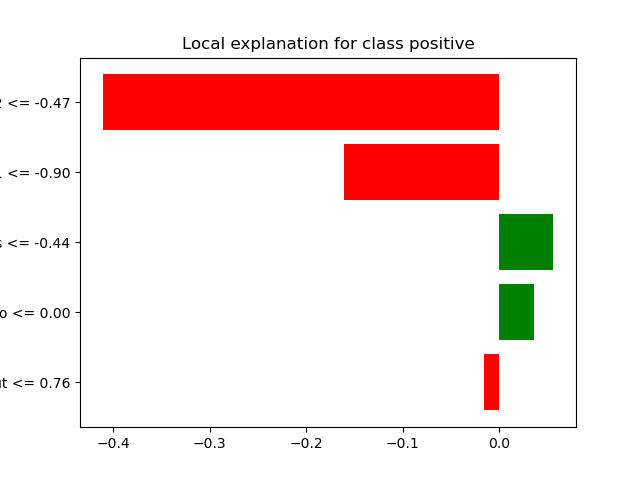
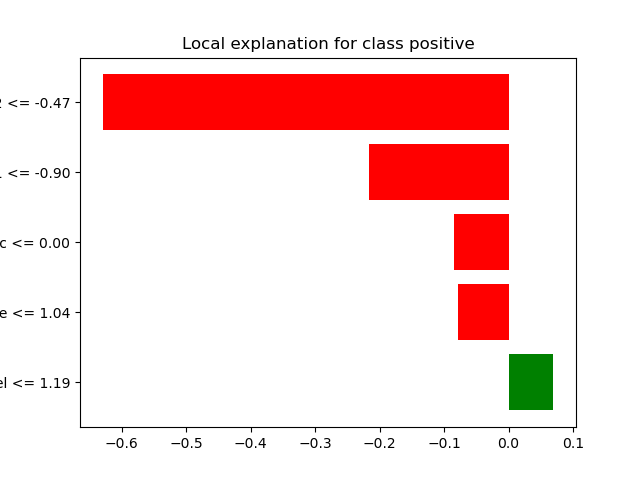
.

diff --git a/figures/lime_39.html b/figures/lime_39.html
@@ -37089,25 +37089,25 @@
 /***/ })
 /******/ ]);
 //# sourceMappingURL=bundle.js.map </script></head><body>
-        <div class="lime top_div" id="top_div134GYWMNFSWOCD2"></div>
+        <div class="lime top_div" id="top_div2PKVVNWMFV5UIDW"></div>
         
         <script>
-        var top_div = d3.select('#top_div134GYWMNFSWOCD2').classed('lime top_div', true);
+        var top_div = d3.select('#top_div2PKVVNWMFV5UIDW').classed('lime top_div', true);
         
             var pp_div = top_div.append('div')
                                 .classed('lime predict_proba', true);
             var pp_svg = pp_div.append('svg').style('width', '100%');
-            var pp = new lime.PredictProba(pp_svg, ["negative", "positive"], [0.5987207920293981, 0.4012792079706018]);
+            var pp = new lime.PredictProba(pp_svg, ["negative", "positive"], [0.7653989574434299, 0.23460104255657005]);
             
         
         var exp_div;
             var exp = new lime.Explanation(["negative", "positive"]);
         
                 exp_div = top_div.append('div').classed('lime explanation', true);
-                exp.show([["num__G2 <= -0.47", -0.4155319941472758], ["num__failures > -0.44", -0.06197574197828475], ["num__absences > 0.31", -0.034453300842906605], ["cat__guardian_other <= 0.00", 0.02938004791413613], ["cat__schoolsup_yes <= 0.00", 0.024327593795474285]], 1, exp_div);
+                exp.show([["num__G2 <= -0.47", -0.6475226745519642], ["ord__Walc > 2.00", 0.09670466915719704], ["cat__Fjob_other <= 0.00", -0.05704923970994646], ["num__famrel <= 0.09", -0.052484835172348386], ["cat__sex_F <= 0.00", -0.03298855573927552]], 1, exp_div);
                 
         var raw_div = top_div.append('div');
-            exp.show_raw_tabular([["num__G2", "-0.47", -0.4155319941472758], ["num__failures", "0.89", -0.06197574197828475], ["num__absences", "1.67", -0.034453300842906605], ["cat__guardian_other", "0.00", 0.02938004791413613], ["cat__schoolsup_yes", "0.00", 0.024327593795474285]], 1, raw_div);
+            exp.show_raw_tabular([["num__G2", "-0.47", -0.6475226745519642], ["ord__Walc", "3.00", 0.09670466915719704], ["cat__Fjob_other", "0.00", -0.05704923970994646], ["num__famrel", "0.09", -0.052484835172348386], ["cat__sex_F", "0.00", -0.03298855573927552]], 1, raw_div);
         
         </script>
         </body></html>

diff --git a/figures/lime_37.html b/figures/lime_37.html
@@ -37089,25 +37089,25 @@
 /***/ })
 /******/ ]);
 //# sourceMappingURL=bundle.js.map </script></head><body>
-        <div class="lime top_div" id="top_divWTW8T5V2JNAGGJN"></div>
+        <div class="lime top_div" id="top_div5YVAXYCJKVZRCPA"></div>
         
         <script>
-        var top_div = d3.select('#top_divWTW8T5V2JNAGGJN').classed('lime top_div', true);
+        var top_div = d3.select('#top_div5YVAXYCJKVZRCPA').classed('lime top_div', true);
         
             var pp_div = top_div.append('div')
                                 .classed('lime predict_proba', true);
             var pp_svg = pp_div.append('svg').style('width', '100%');
-            var pp = new lime.PredictProba(pp_svg, ["negative", "positive"], [0.693456281934984, 0.30654371806501596]);
+            var pp = new lime.PredictProba(pp_svg, ["negative", "positive"], [0.8916315243015143, 0.10836847569848577]);
             
         
         var exp_div;
             var exp = new lime.Explanation(["negative", "positive"]);
         
                 exp_div = top_div.append('div').classed('lime explanation', true);
-                exp.show([["num__G2 <= -0.47", -0.4113418757389732], ["num__G1 <= -0.90", -0.1608465123258546], ["num__failures <= -0.44", 0.05649073602072631], ["cat__higher_no <= 0.00", 0.03650989588248208], ["-0.14 < num__goout <= 0.76", -0.015207290728830062]], 1, exp_div);
+                exp.show([["num__G2 <= -0.47", -0.6297159106928624], ["num__G1 <= -0.90", -0.21577845393347375], ["ord__Walc <= 0.00", -0.08409610310504374], ["0.26 < num__age <= 1.04", -0.07821274875557307], ["0.09 < num__famrel <= 1.19", 0.0694930810203037]], 1, exp_div);
                 
         var raw_div = top_div.append('div');
-            exp.show_raw_tabular([["num__G2", "-0.47", -0.4113418757389732], ["num__G1", "-0.90", -0.1608465123258546], ["num__failures", "-0.44", 0.05649073602072631], ["cat__higher_no", "0.00", 0.03650989588248208], ["num__goout", "0.76", -0.015207290728830062]], 1, raw_div);
+            exp.show_raw_tabular([["num__G2", "-0.47", -0.6297159106928624], ["num__G1", "-0.90", -0.21577845393347375], ["ord__Walc", "0.00", -0.08409610310504374], ["num__age", "1.04", -0.07821274875557307], ["num__famrel", "1.19", 0.0694930810203037]], 1, raw_div);
         
         </script>
         </body></html>

diff --git a/figures/lime_31.html b/figures/lime_31.html
@@ -37089,25 +37089,25 @@
 /***/ })
 /******/ ]);
 //# sourceMappingURL=bundle.js.map </script></head><body>
-        <div class="lime top_div" id="top_divHO8MUH88YZZ1HGO"></div>
+        <div class="lime top_div" id="top_div8Z34L33YZK8IZ5B"></div>
         
         <script>
-        var top_div = d3.select('#top_divHO8MUH88YZZ1HGO').classed('lime top_div', true);
+        var top_div = d3.select('#top_div8Z34L33YZK8IZ5B').classed('lime top_div', true);
         
             var pp_div = top_div.append('div')
                                 .classed('lime predict_proba', true);
             var pp_svg = pp_div.append('svg').style('width', '100%');
-            var pp = new lime.PredictProba(pp_svg, ["negative", "positive"], [0.7245264590710248, 0.2754735409289752]);
+            var pp = new lime.PredictProba(pp_svg, ["negative", "positive"], [0.6437899966932901, 0.35621000330671]);
             
         
         var exp_div;
             var exp = new lime.Explanation(["negative", "positive"]);
         
                 exp_div = top_div.append('div').classed('lime explanation', true);
-                exp.show([["num__G2 <= -0.47", -0.4119127422119522], ["num__G1 <= -0.90", -0.16014921697397475], ["num__failures <= -0.44", 0.0647143278615875], ["cat__higher_no <= 0.00", 0.03393158315076837], ["cat__Fjob_other <= 0.00", -0.014458842018646969]], 1, exp_div);
+                exp.show([["num__G2 <= -0.47", -0.6384098277433632], ["num__G1 <= -0.90", -0.20762130910328508], ["ord__Walc <= 0.00", -0.09224043056398551], ["num__age <= -0.52", 0.07224012001151699], ["cat__Fjob_other <= 0.00", -0.0623879507948481]], 1, exp_div);
                 
         var raw_div = top_div.append('div');
-            exp.show_raw_tabular([["num__G2", "-0.73", -0.4119127422119522], ["num__G1", "-0.90", -0.16014921697397475], ["num__failures", "-0.44", 0.0647143278615875], ["cat__higher_no", "0.00", 0.03393158315076837], ["cat__Fjob_other", "0.00", -0.014458842018646969]], 1, raw_div);
+            exp.show_raw_tabular([["num__G2", "-0.73", -0.6384098277433632], ["num__G1", "-0.90", -0.20762130910328508], ["ord__Walc", "0.00", -0.09224043056398551], ["num__age", "-1.31", 0.07224012001151699], ["cat__Fjob_other", "0.00", -0.0623879507948481]], 1, raw_div);
         
         </script>
         </body></html>

diff --git a/src/train.py b/src/train.py
@@ -333,6 +333,19 @@ def main(
                 fairness_df = pd.DataFrame(fairness_records)
                 fairness_path = report_dir / f"fairness_{col}.csv"
                 fairness_df.to_csv(fairness_path, index=False)
+                (
+                    fairness_df.set_index(col)[
+                        [
+                            "demographic_parity",
+                            "predictive_parity",
+                            "equalized_odds",
+                        ]
+                    ].plot.bar()
+                )
+                plt.ylabel("score")
+                plt.tight_layout()
+                plt.savefig(fig_dir / f"fairness_{col}.png")
+                plt.close()
                 print(f"Fairness metrics for '{col}':")
                 print(
                     fairness_df.to_string(

diff --git a/dashboard.py b/dashboard.py
@@ -213,7 +213,12 @@ elif page == "Explanations":
         st.subheader("LIME Explanations")
         lime_map = {p.stem: p for p in sorted(lime_paths)}
         lime_choice = st.selectbox("Select LIME explanation", list(lime_map.keys()), key="lime_select")
-        st_html(lime_map[lime_choice].read_text(), height=600, scrolling=True)
+        st_html(
+            lime_map[lime_choice].read_text(encoding="utf-8"),
+            height=600,
+            scrolling=True,
+        )
+
     else:
         st.info("No LIME HTML explanations found.")
 

diff --git a/src/nested_cv.py b/src/nested_cv.py
@@ -332,7 +332,7 @@ def main(csv_path: str = "student-mat.csv", repeats: int = 1, models=None):
 
     table_dir = Path("tables")
     table_dir.mkdir(exist_ok=True)
-    results_df.to_csv(table_dir / "nested_cv_metrics.csv", index=False)
+    results_df.to_csv(table_dir / "nested_cv_regression_metrics.csv", index=False)
 
     base_model = models[0][0]
     stats_df = statistical_tests(results_df, base_model)
